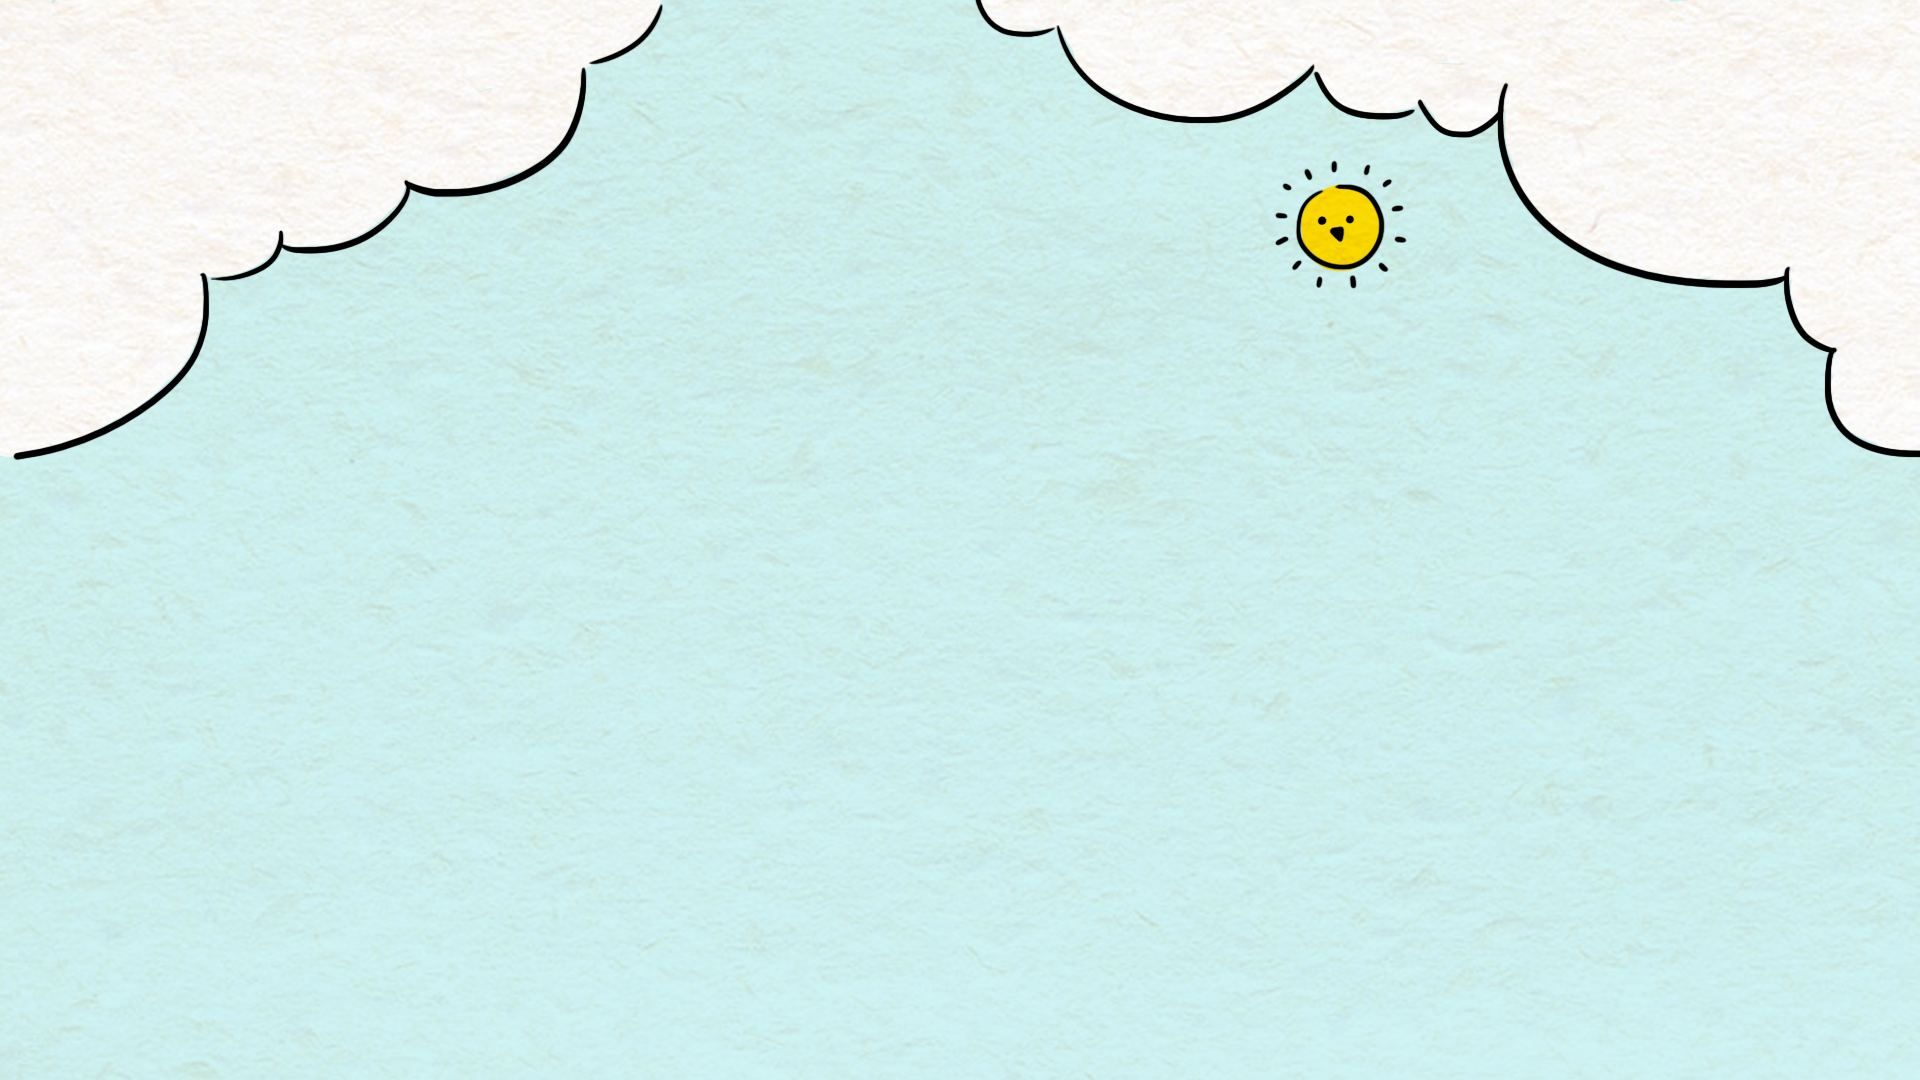
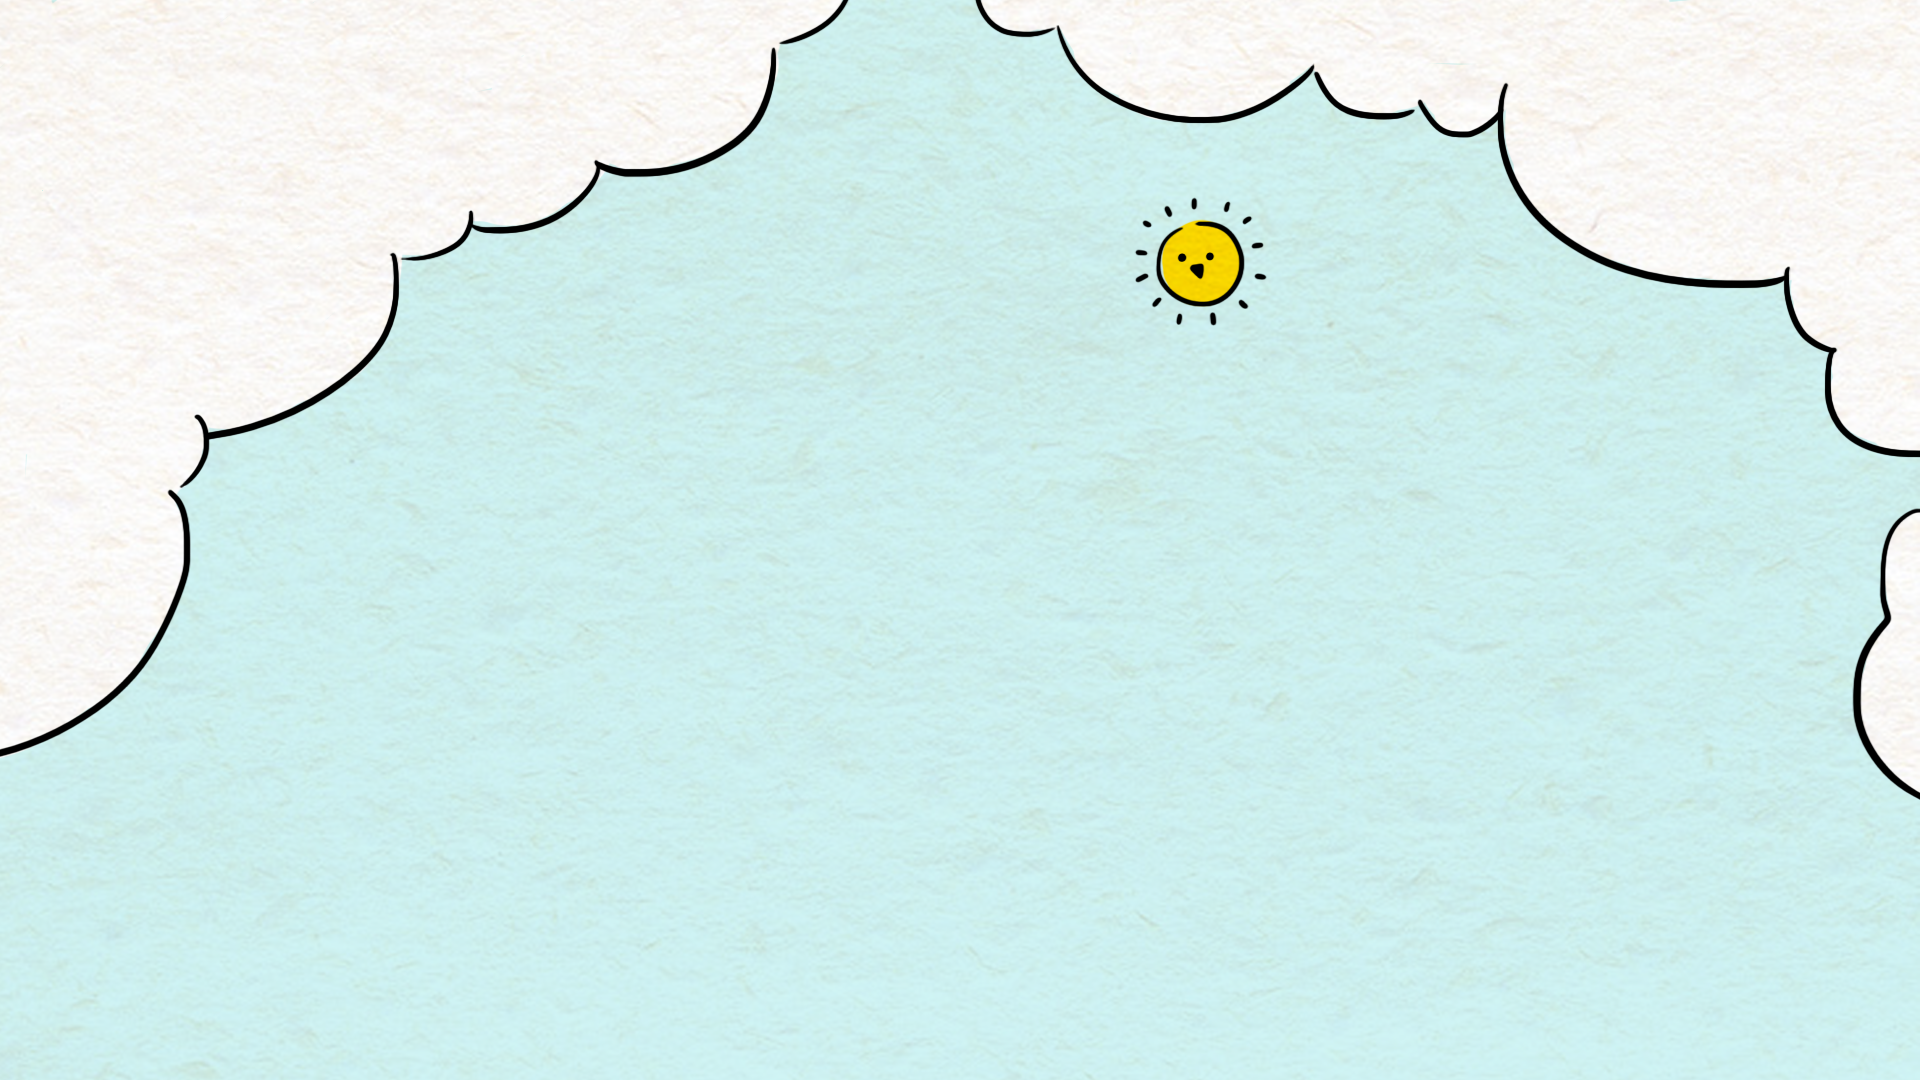
이미지 변경

Changed region(s): [[0.0, 0.0, 0.4375, 0.7028], [0.5938, 0.1528, 0.7188, 0.3056], [0.9375, 0.4583, 1.0, 0.7333]]

diff --git a/index_1.html b/index_1.html
@@ -1,0 +1,395 @@
+<!DOCTYPE html>
+<html xmlns="http://www.w3.org/1999/xhtml">
+
+<head>
+    <meta http-equiv="Content-Type" content="text/html; charset=utf-8" />
+    <title>Kayraten Teaser</title>
+    <link rel="stylesheet" type="text/css" href="./css/jquery.fullPage.css" />
+    <link rel="stylesheet" type="text/css" href="./css/examples.css" />
+    <link href="./css/bootstrap.min.css" rel="stylesheet">
+    <link href="./css/common.css" rel="stylesheet">
+    <style>
+        @import url(https://fonts.googleapis.com/css?family=Source+Sans+Pro:300,400);
+        @font-face{
+            font-family:"ktegaki";
+            src:url("./css/fonts/KTEGAKI.ttf");
+        }
+        /* Style for our header texts
+        * --------------------------------------- */
+        h1{
+            font-size: 4em;
+            font-family: arial,helvetica;
+            color: #222;
+            margin:0;
+            padding:0;
+            font-family: 'ktegaki', sans-serif;
+        }
+        h3{
+            font-size: 3em;
+            font-family: arial,helvetica;
+            color: #444;
+            margin:0;
+            padding:0;
+            font-family: 'ktegaki', sans-serif;
+        }
+
+        /* Centered texts in each section
+        * --------------------------------------- */
+        .section{
+            text-align:center;
+        }
+        /* Backgrounds will cover all the section
+        * --------------------------------------- */
+        .section{
+            background-size: cover;
+        }
+        .slide{
+            background-size: cover;
+        }
+
+        /* Defining each section background and styles
+        * --------------------------------------- */
+        #section1{
+            background:url(./img/bg_01.png) no-repeat center;
+            background-size:cover;
+        }
+        #section1 h1{
+            font-size: 3.5em;
+            color: #333;
+            font-weight: 500;
+            top: 50%;
+            transform: translateY(-40%);
+            position: relative;
+        }
+        #section2{
+            background:url(./img/bg_02.png) no-repeat center;
+            background-size:cover;
+            padding: 6% 0 0 0;
+        }
+        #section2 h3
+        ,#section3 h3
+        ,#section4 h3{
+            top: 30%;
+            transform: translateY(0%);
+            position: relative;
+        }
+        #section3{
+            background:url(./img/bg_03.png) no-repeat center;
+            background-size:cover;
+            padding: 6% 0 0 0;
+        }
+        #section4{
+            background:url(./img/bg_04.png) no-repeat center;
+            background-size:cover;
+            padding: 6% 0 0 0;
+        }
+        #section5{
+            background:url(./img/bg_05.png) no-repeat center;
+            background-size:cover;
+            padding: 6% 0 0 0;
+        }
+        #section5 h1{
+            font-size: 5em;
+            top: 40%;
+            transform: translateY(-30%);
+            position: relative;
+        }
+        #section6{
+            background:url(./img/bg_06.png) no-repeat center;
+            background-size:cover;
+            padding: 6% 0 0 0;
+        }
+        #section6 span{
+            font-size: 1em;
+            font-weight: bold;
+            color: #333;
+        }
+        #section6 p{
+            font-size: 1em;
+            color: #555;
+        }
+        #section7{
+            background:url(./img/bg_07.png) no-repeat center;
+            background-size:cover;
+            padding: 6% 0 0 0;
+        }
+        #section7 h3{
+            top: 30%;
+            transform: translateY(0%);
+            position: relative;
+        }
+        #section8{
+            background:url(./img/bg_08.png) no-repeat center;
+            background-size:cover;
+            padding: 6% 0 0 0;
+            color: #666;
+            font-family: sans-serif;
+        }
+        #section8 h1{
+            color: #2;
+            font-family: sans-serif;
+            font-size: 3em;
+        }
+
+        #section8 div.button {
+            flex: 1 1 auto;
+            margin: 10px;
+            padding: 20px;
+            border: 2px solid #666;
+            text-align: center;
+            text-transform: uppercase;
+            position: relative;
+            overflow:hidden;
+            transition: .3s;
+            cursor: pointer;
+        }
+    </style>
+</head>
+<body>
+    <div id="fullpage">
+        <div class="section" id="section1">
+            <h1 id="title">あなただけのオリジナルキャラクターが登場する天気予報</h1>
+        </div>
+<!--  -->
+        <div class="section" id="section2">
+            <div class="col-sm-12">
+                <div class="col-sm-12">
+                    <h3>
+                        STEP1<br/>
+                        しみ方はとってもシンプル！<br/>
+                        キャラクターとお天気マーク<br/>
+                        （例：晴れ、雨など）を描く<br/>
+                    </h3>
+                </div>
+                <div class="col-sm-3"></div>
+                <div class="col-xs-12 col-sm-6">
+                    <img src="./img/item_02.png" alt="" class="col-xs-12 col-sm-12">
+                </div>
+                <div class="col-sm-3"></div>
+            </div>
+        </div>
+<!--  -->
+        <div class="section" id="section3">
+            <div class="col-sm-12">
+                <div class="col-sm-12">
+                    <h3>
+                        STEP2<br/>
+                        「キャラ天」サイト・アプリにて<br/>
+                        画像をアップロード<br/>
+                    </h3>
+                </div>
+                <div class="col-sm-3"></div>
+                <div class="col-xs-12 col-sm-6">
+                    <img src="./img/item_03.png" alt="" class="col-xs-12 col-sm-12">
+                </div>
+                <div class="col-sm-3"></div>
+            </div>
+        </div>
+<!--  -->
+        <div class="section" id="section4">
+            <div class="col-sm-12">
+                <div class="col-sm-12">
+                    <h3>
+                        STEP3<br/>
+                        オリジナル天気予報の完成！<br/>
+                        天気予報データに基づいたイラストが、<br/>
+                        ２時間ごとに配信されます♪<br/>
+                    </h3>
+                </div>
+                <div class="col-sm-3"></div>
+                <div class="col-xs-12 col-sm-6">
+                    <img src="./img/item_04.png" alt="" class="col-xs-12 col-sm-12">
+                </div>
+                <div class="col-sm-3"></div>
+            </div>
+        </div>
+<!--  -->
+        <div class="section" id="section5">
+            <h1>でも…楽しみ方はそれだけじゃない！</h1>
+        </div>
+<!--  -->
+        <div class="section" id="section6">
+            <h3>
+                <span style="text-decoration: underline;">ポイント１</span><br/>
+                    <p>他のユーザーとつながろう！<br/>
+                    キャラクターのコラボが楽しめる</p><br/><br/>
+                <span style="text-decoration: underline;">ポイント２</span><br/>
+                    <p>アニメーションスタンプも対応<br/>　
+                    動くキャラクターでも天気予報を楽しもう</p><br/><br/>
+                <span style="text-decoration: underline;">ポイント３</span><br/>
+                    <p>スタンプ・アニメーションスタンプの販売で<br/>　
+                    目指せ人気クリエイター！！</p>
+            </h3>
+        </div>
+<!--  -->
+        <div class="section" id="section7">
+            <div class="col-sm-12">
+                <div class="col-sm-12">
+                    <h3>
+                        近日、アプリ配信開始予定<br/><br/>
+                        事前登録受付中<br/>
+                        今なら事前登録をされた方の中から抽選で<br>
+                        10名様に電子マネー500円分をプレゼント！<br>
+                    </h3>
+                </div>
+                <div class="col-sm-3"></div>
+                <div class="col-xs-12 col-sm-6">
+                    <img src="./img/item_07.png" alt="" class="col-xs-12 col-sm-12">
+                </div>
+                <div class="col-sm-3"></div>
+            </div>
+        </div>
+<!--  -->
+        <div class="section" id="section8">
+            <div class="col-sm-12">
+                <form id="sendForm">
+                    <h1 id="resize_text_c5">事前予約登録画面</h1>
+                    <div class="col-sm-12 hidden-480" style="height:100px;"></div>
+                    <div class="col-sm-2"></div>
+                    <div class="col-xs-12 col-sm-8">
+                        <fieldset>
+                            <div class="col-xs-12 col-sm-3">
+                                <legend><span class="pull-left">ユーザーネーム</span></legend>
+                            </div>
+                            <div class="col-xs-12 col-sm-9">
+                                <input type="text" name="name" id="name" class="col-xs-12 col-sm-8">
+                                <span></span>
+                            </div>
+                        </fieldset>
+                        <div id="errorMsg"></div>
+                        <div class="space-16 hidden-480"></div>
+                        <fieldset>
+                            <div class="col-xs-12 col-sm-3">
+                                <legend><span class="pull-left">メールアドレス</span></legend>
+                            </div>
+                            <div class="col-xs-12 col-sm-9">
+                                <input type="email" name="mail" id="mail" class="col-xs-12 col-sm-8">
+                                <span></span>
+                            </div>
+                        </fieldset>
+                        <div id="errorMsg"></div>
+                        <hr>
+                        <div class="col-xs-1 col-sm-7"></div>
+                        <button id="saveBtn" class="btn btn-primary btn-lg col-xs-10 col-sm-2">送信する</button><!--송신-->
+                        <div class="col-xs-1 col-sm-3"></div>
+                    </div>
+                    <div class="col-sm-2"></div>
+                </form>
+            </div>
+<!--
+            <h1 id="resize_text_c5">事前予約登録画面</h1>
+            <div class="container">
+                <form id="sendForm">
+                    <div class="group">
+                        <input type="text" name="name" id="name" required>
+                        <span class="highlight"></span>
+                        <span class="bar"></span>
+                        <label>ユーザーネーム</label>
+                        <span id="errorMsg"></span>
+                    </div>
+                    <div>
+                        <span id="messageBox"></span>
+                    </div>
+                    <div class="group">
+                        <input type="text" name="mail" id="mail" required>
+                        <span class="highlight"></span>
+                        <span class="bar"></span>
+                        <label>メールアドレス</label>
+                        <span id="errorMsg"></span>
+                    </div>
+                    <div>
+                        <span id="messageBox"></span>
+                    </div>
+                </form>
+                <p class="footer">
+                    <div id="saveBtn" class="button">送信する</div>
+                </p>
+            </div>
+-->
+
+        </div>
+    </div>
+    <!-- modal -->
+    <div class="modal fade" id="bs-example-modal-lg" tabindex="-1" role="dialog" aria-labelledby="myLargeModalLabel" aria-hidden="true">
+        <div class="modal-dialog modal-lg">
+            <div class="modal-content">
+                <div id="modalMsg" class="modal-body"></div>
+            </div>
+        </div>
+    </div>
+<!--[if IE]>
+    <script type="text/javascript">
+         var console = { log: function() {} };
+    </script>
+    <![endif]-->
+
+    <script src="https://ajax.googleapis.com/ajax/libs/jquery/1.12.4/jquery.min.js"></script>
+    <script src="https://ajax.googleapis.com/ajax/libs/jqueryui/1.12.1/jquery-ui.min.js"></script>
+    <script src="https://cdnjs.cloudflare.com/ajax/libs/jquery-validate/1.16.0/jquery.validate.min.js"></script>
+    <script src="./js/bootstrap.min.js"></script>
+    <script src="./js/jquery.fittext.js"></script>
+    <script src="./js/jquery.fullPage.js" type="text/javascript" ></script>
+    <script type="text/javascript">
+        var msg={
+             noName:"※は必須入力です"
+            ,noMail:"※は必須入力です"
+            ,success:"送信完了"
+            ,error:"正しく入力されていない項目があります。もう一度ご入力ください。"
+        }
+
+        $(document).ready(function() {
+
+            $("h1#title").fitText(2,{ minFontSize: '30px', maxFontSize: '50px' });
+
+            $('#fullpage').fullpage({
+                verticalCentered: false
+            });
+
+            $("#saveBtn").on("click",function(){
+                $("#sendForm").submit();
+            });
+
+            $("#sendForm").validate({
+                debug : true,
+                rules : {
+                     name : {required : true, minlength : 2}
+                    ,mail : {required : true, email : true}
+                },
+                message : {
+                     name : {required : "※は必須入力です1", minlength : "※は必須入力です2"}
+                    ,mail : {required : "※は必須入力です3", email : "※は必須入力です4"}
+                },
+                errorPlacement:function(error,element){
+                    error.appendTo( element.closest("fieldset").next("div#errorMsg"));
+                },
+                submitHandler: function() {
+                    sendData();
+                }
+            });
+        });
+
+        function sendData(){
+            $.ajax({
+                 //url:"https://script.google.com/macros/s/AKfycbwow4e86Vh8Syq_1fzpct7STCHHpnFkU2etQUVhBE9wN9oqtpE/exec"
+                 url:"https://listensoft.slack.com/services/hooks/slackbot?token=FnYtz5bBVRS7i3D7ahE51Yq6&channel=%23fb_teaser_writer"
+                ,data:{name:$("#name").val()
+                    , mail:$("#mail").val()
+                }
+                ,type:"POST"
+                ,success:function(e){
+                    $("#name").val("");
+                    $("#mail").val("");
+                    $("div#modalMsg").text(msg.success);
+                    $("#bs-example-modal-lg").modal("toggle");
+                }
+                ,error:function(){
+                    $("div#modalMsg").text(msg.error);
+                    $("#bs-example-modal-lg").modal("toggle");
+                }
+            });
+
+        }
+
+    </script>
+</body>
+</html>
